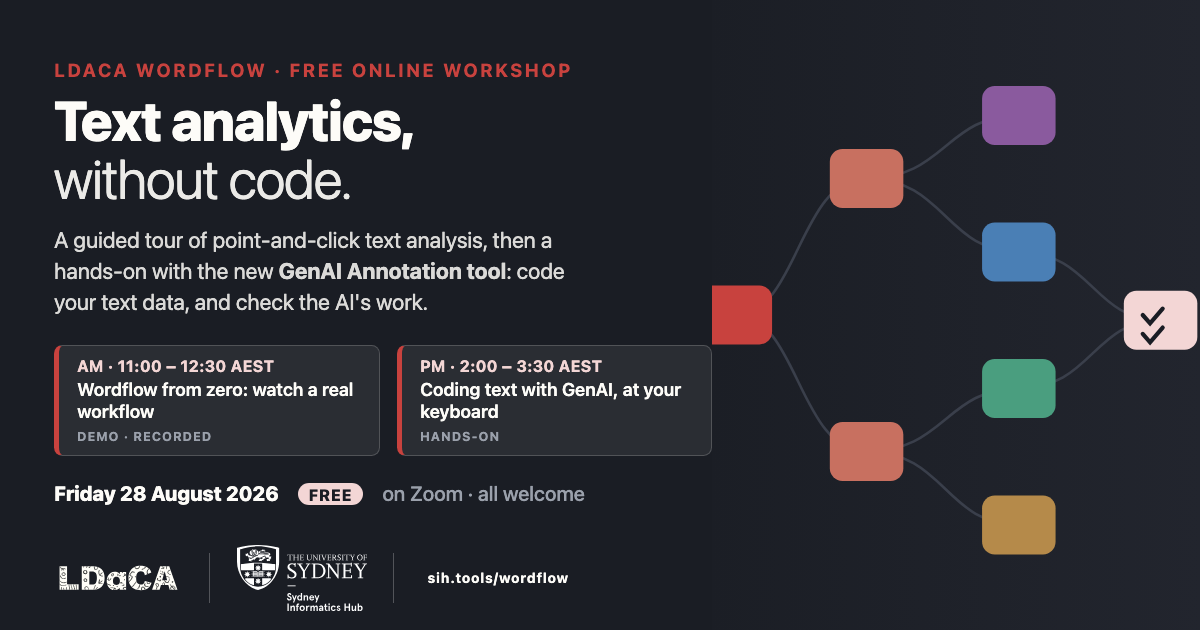
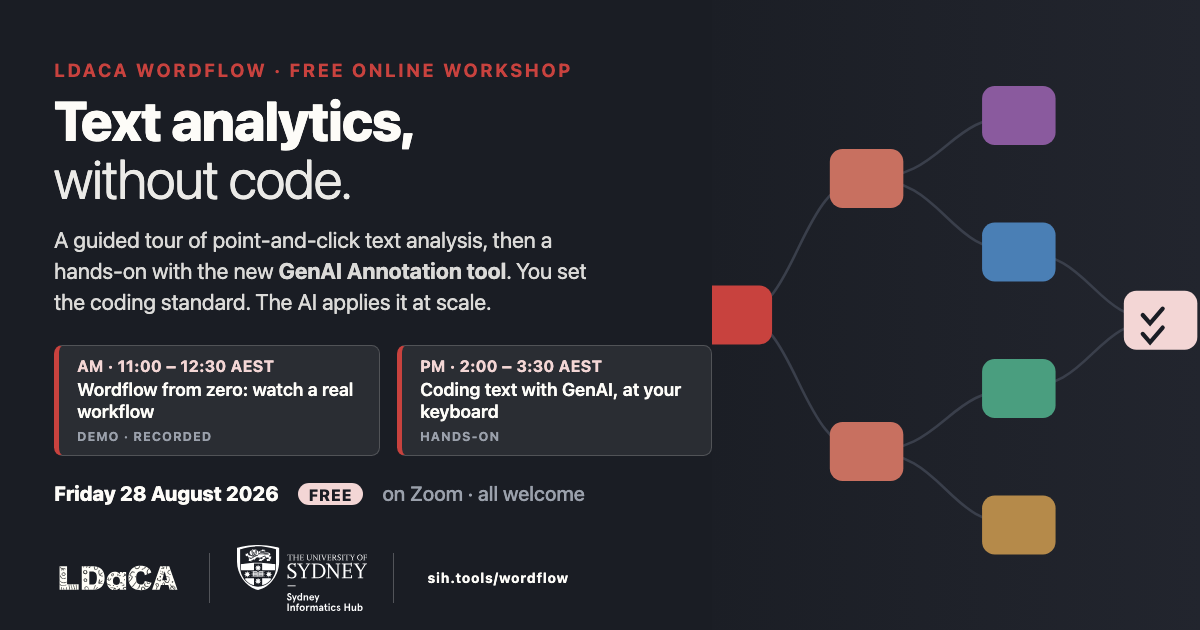
Adopt researcher-first framing across promo pieces
Banner and social: 'You set the coding standard. The AI applies it at
scale.' Eventbrite summary and newsletter: 'You code a sample and
define the codebook; the AI must match your expectation before it
earns the corpus; then it annotates at scale.' Eventbrite session-2
paragraph and alumni email reworked to the same arc. Banner PNGs
re-rendered.

Changed region(s): [[0.0308, 0.4524, 0.4008, 0.5127], [0.4317, 0.4222, 0.4933, 0.4524]]

diff --git a/communications/promo-blurbs-online.html b/communications/promo-blurbs-online.html
@@ -22,7 +22,7 @@
     <strong style="color:#374151;">Event title:</strong> Text analytics without code: LDaCA Wordflow online workshop (incl. hands-on GenAI text coding)
   </div>
   <div style="max-width:640px; margin:0 auto 14px; font-family:-apple-system,'Segoe UI',Roboto,Helvetica,Arial,sans-serif; font-size:13px; color:#6b7280;">
-    <strong style="color:#374151;">Summary (short description field):</strong> A free one-day online workshop for researchers who work with text. Morning: see what Wordflow can do, end to end (no installation needed). Afternoon: hands-on with the new Annotation tool. Code your text data with a GenAI model, and learn how to check its work.
+    <strong style="color:#374151;">Summary (short description field):</strong> A free one-day online workshop for researchers who work with text. Morning: see what Wordflow can do, end to end (no installation needed). Afternoon: hands-on with the new Annotation tool. You code a sample and define the codebook; the AI must match your expectation before it earns the corpus; then it annotates at scale.
   </div>
   <div style="max-width:640px; margin:0 auto 36px; background:#ffffff; padding:32px 36px; border-radius:10px; border:1px solid #e5e7eb; font-family:-apple-system,'Segoe UI',Roboto,Helvetica,Arial,sans-serif; font-size:15px; line-height:1.6; color:#1f2933;">
 
@@ -34,7 +34,7 @@
     <p style="margin:0 0 16px;">A guided tour, no hands-on and nothing to install: the concepts, the interface, and a real research workflow built live: from raw election tweets to a small empirical finding, across four analysis tools. This session is <strong>recorded</strong>, so you can revisit it any time. If you attended our June workshop, you may prefer to join for the afternoon only.</p>
 
     <h2 style="font-size:18px; font-weight:600; color:#1a56db; margin:28px 0 8px;">Session 2 · Hands-on: coding text with GenAI, 2:00 – 3:30 pm AEST <span style="font-weight:400; color:#6b7280; font-size:15px;">(1:30 pm ACST · 12:00 pm AWST)</span></h2>
-    <p style="margin:0 0 16px;">At your own keyboard, you'll use Wordflow's new <strong>Annotation</strong> tool to classify a real dataset with an AI model, then check the AI's coding the way you'd check a human coder's: agreement scores, a confusion matrix, and targeted revisions to your codebook and prompt. This session is deliberately <strong>not recorded</strong>, so it can run at the room's pace. To take part you'll need the free desktop app installed and a free AI-provider API key; a registration email a week beforehand walks you through both (about 10 minutes; zero cost).</p>
+    <p style="margin:0 0 16px;">At your own keyboard, you'll use Wordflow's new <strong>Annotation</strong> tool the researcher-first way: you code a sample and define the codebook; the AI must match your expectation (agreement scores, a confusion matrix, targeted revisions to your codebook and prompt) before it earns the corpus; then it annotates at scale. This session is deliberately <strong>not recorded</strong>, so it can run at the room's pace. To take part you'll need the free desktop app installed and a free AI-provider API key; a registration email a week beforehand walks you through both (about 10 minutes; zero cost).</p>
 
     <h2 style="font-size:18px; font-weight:600; color:#1a56db; margin:28px 0 8px;">Who it's for</h2>
     <p style="margin:0 0 16px;">HDR students to senior academics, in any field where text is data. No coding experience needed. That's the point. Built for Australian researchers, but free and open to everyone; international colleagues are warmly welcome (session times are AEST; the desktop app works anywhere).</p>
@@ -54,7 +54,7 @@
     2 · Newsletter paragraph
   </div>
   <div style="max-width:640px; margin:0 auto 36px; background:#ffffff; padding:32px 36px; border-radius:10px; border:1px solid #e5e7eb; font-family:-apple-system,'Segoe UI',Roboto,Helvetica,Arial,sans-serif; font-size:15px; line-height:1.6; color:#1f2933;">
-    <p style="margin:0;"><strong>Text analytics without code, including GenAI text coding (online, 28 August).</strong> Do you work with text (interviews, social media, news, archives) but not with Python or R? Join us on <strong>Friday 28 August</strong> for a free online workshop on <strong>LDaCA Wordflow</strong>, a point-and-click text analytics app from the Language Data Commons of Australia. The morning session (<strong>11:00 am – 12:30 pm AEST</strong>; 9:00 am in the west) is a watch-only tour: concepts, interface, and a real research workflow built live, recorded for later viewing. After lunch (<strong>2:00 – 3:30 pm AEST</strong>), a hands-on session introduces Wordflow's new <strong>Annotation</strong> tool: code a real dataset with a GenAI model, measure its agreement with human coders, and improve it (the workflow you'd need before trusting AI-assisted coding in your own research). Attend either session or both; no coding experience required. Register at <span style="background:#fef3c7; padding:0 4px; border-radius:3px;">⟨Eventbrite link⟩</span>.</p>
+    <p style="margin:0;"><strong>Text analytics without code, including GenAI text coding (online, 28 August).</strong> Do you work with text (interviews, social media, news, archives) but not with Python or R? Join us on <strong>Friday 28 August</strong> for a free online workshop on <strong>LDaCA Wordflow</strong>, a point-and-click text analytics app from the Language Data Commons of Australia. The morning session (<strong>11:00 am – 12:30 pm AEST</strong>; 9:00 am in the west) is a watch-only tour: concepts, interface, and a real research workflow built live, recorded for later viewing. After lunch (<strong>2:00 – 3:30 pm AEST</strong>), a hands-on session introduces Wordflow's new <strong>Annotation</strong> tool. You code a sample and define the codebook; the AI must match your expectation before it earns the corpus; then it annotates at scale. Attend either session or both; no coding experience required. Register at <span style="background:#fef3c7; padding:0 4px; border-radius:3px;">⟨Eventbrite link⟩</span>.</p>
   </div>
 
   <!-- ============================================================= -->
@@ -67,7 +67,7 @@
     <p style="margin:0 0 14px;">Text as data, but code not your thing? 🧶</p>
     <p style="margin:0 0 14px;">Free online workshop, Fri 28 Aug: <strong>LDaCA Wordflow</strong>, point-and-click text analytics.</p>
     <p style="margin:0 0 4px;">☀ AM (11:00 AEST / 9:00 AWST): watch a full research workflow, raw tweets → findings. Recorded.</p>
-    <p style="margin:0 0 14px;">🛠 PM (2:00 AEST / 12:00 AWST): hands-on. Code text with a GenAI model, then check its work like you'd check a human coder's.</p>
+    <p style="margin:0 0 14px;">🛠 PM (2:00 AEST / 12:00 AWST): hands-on. You set the coding standard. The AI applies it at scale.</p>
     <p style="margin:0 0 14px;">Come for one session or both. Register: <span style="background:#fef3c7; padding:0 4px; border-radius:3px;">⟨link⟩</span></p>
     <p style="margin:0; color:#2563eb;">#TextAnalytics #DigitalHumanities #LDaCA #ResearchTools</p>
   </div>
@@ -87,7 +87,7 @@
 
     <p style="margin:0 0 16px;">You joined our Wordflow workshop back in June. Thank you again. You may remember an AI annotation entry sitting in the sidebar that wasn't usable yet. It's now released, and we're running an online hands-on for it.</p>
 
-    <p style="margin:0 0 16px;">On <strong>Friday 28 August, 2:00 – 3:30 pm AEST</strong> (12:00 pm in the west), you'll use the new <strong>Annotation tool</strong> in Wordflow v0.7 to code a real dataset with a GenAI model of your choice and, more importantly, check its work the way you'd check a human coder's: intercoder reliability, a confusion matrix, and revisions to your codebook until the numbers hold up. It's on your own keyboard, at the room's pace, and not recorded.</p>
+    <p style="margin:0 0 16px;">On <strong>Friday 28 August, 2:00 – 3:30 pm AEST</strong> (12:00 pm in the west), you'll use the new <strong>Annotation tool</strong> in Wordflow v0.7 the researcher-first way: code a sample, define the codebook, and hold the AI to your standard (intercoder reliability, a confusion matrix, codebook revisions until the numbers hold up) before it annotates the corpus at scale. It's on your own keyboard, at the room's pace, and not recorded.</p>
 
     <p style="margin:0 0 16px;">Since you've done the June intro, this afternoon session is all you need, though there's also a <strong>morning session (11:00 am – 12:30 pm AEST)</strong> re-introducing Wordflow for newcomers, rebuilt on v0.7's refreshed interface. It'll be recorded, so you can skim it later if you're curious what's changed.</p>
 

diff --git a/communications/images/banner-source.html b/communications/images/banner-source.html
@@ -134,7 +134,7 @@
   <div class="left">
     <div class="kicker">LDaCA Wordflow · Free Online Workshop</div>
     <h1>Text analytics,<br><span class="thin">without code.</span></h1>
-    <p class="sub">A guided tour of point-and-click text analysis, then a hands-on with the new <strong>GenAI Annotation tool</strong>: code your text data, and check the AI's work.</p>
+    <p class="sub">A guided tour of point-and-click text analysis, then a hands-on with the new <strong>GenAI Annotation tool</strong>. You set the coding standard. The AI applies it at scale.</p>
     <div class="sessions">
       <div class="session">
         <div class="when">AM · 11:00 – 12:30 AEST</div>

diff --git a/communications/promo-blurbs-online.md b/communications/promo-blurbs-online.md
@@ -9,7 +9,7 @@ Three ready-to-paste blurbs. Placeholders in ⟨angle brackets⟩. Keep the tone
 **Title:** Text analytics without code: LDaCA Wordflow online workshop (incl. hands-on GenAI text coding)
 
 **Summary (short description field):**
-A free one-day online workshop for researchers who work with text. Morning: see what Wordflow can do, end to end (no installation needed). Afternoon: hands-on with the new Annotation tool. Code your text data with a GenAI model, and learn how to check its work.
+A free one-day online workshop for researchers who work with text. Morning: see what Wordflow can do, end to end (no installation needed). Afternoon: hands-on with the new Annotation tool. You code a sample and define the codebook; the AI must match your expectation before it earns the corpus; then it annotates at scale.
 
 **Description:**
 
@@ -21,7 +21,7 @@ This online workshop runs as **two 90-minute Zoom sessions**; attend either half
 A guided tour, no hands-on and nothing to install: the concepts, the interface, and a real research workflow built live: from raw election tweets to a small empirical finding, across four analysis tools. This session is **recorded**, so you can revisit it any time. If you attended our June workshop, you may prefer to join for the afternoon only.
 
 **Session 2 · Hands-on: coding text with GenAI, 2:00 – 3:30 pm AEST** *(1:30 pm ACST · 12:00 pm AWST)*
-At your own keyboard, you'll use Wordflow's new **Annotation** tool to classify a real dataset with an AI model, then check the AI's coding the way you'd check a human coder's: agreement scores, a confusion matrix, and targeted revisions to your codebook and prompt. This session is deliberately **not recorded**, so it can run at the room's pace. To take part you'll need the free desktop app installed and a free AI-provider API key; a registration email a week beforehand walks you through both (about 10 minutes; zero cost).
+At your own keyboard, you'll use Wordflow's new **Annotation** tool the researcher-first way: you code a sample and define the codebook; the AI must match your expectation (agreement scores, a confusion matrix, targeted revisions to your codebook and prompt) before it earns the corpus; then it annotates at scale. This session is deliberately **not recorded**, so it can run at the room's pace. To take part you'll need the free desktop app installed and a free AI-provider API key; a registration email a week beforehand walks you through both (about 10 minutes; zero cost).
 
 **Who it's for:** HDR students to senior academics, in any field where text is data. No coding experience needed. That's the point. Built for Australian researchers, but free and open to everyone; international colleagues are warmly welcome (session times are AEST; the desktop app works anywhere).
 
@@ -35,7 +35,7 @@ Wordflow is developed at the University of Sydney (Sydney Informatics Hub and Sy
 
 ## 2 · Newsletter paragraph
 
-**Text analytics without code, including GenAI text coding (online, 28 August).** Do you work with text (interviews, social media, news, archives) but not with Python or R? Join us on **Friday 28 August** for a free online workshop on **LDaCA Wordflow**, a point-and-click text analytics app from the Language Data Commons of Australia. The morning session (**11:00 am – 12:30 pm AEST**; 9:00 am in the west) is a watch-only tour: concepts, interface, and a real research workflow built live, recorded for later viewing. After lunch (**2:00 – 3:30 pm AEST**), a hands-on session introduces Wordflow's new **Annotation** tool: code a real dataset with a GenAI model, measure its agreement with human coders, and improve it (the workflow you'd need before trusting AI-assisted coding in your own research). Attend either session or both; no coding experience required. Register at ⟨Eventbrite link⟩.
+**Text analytics without code, including GenAI text coding (online, 28 August).** Do you work with text (interviews, social media, news, archives) but not with Python or R? Join us on **Friday 28 August** for a free online workshop on **LDaCA Wordflow**, a point-and-click text analytics app from the Language Data Commons of Australia. The morning session (**11:00 am – 12:30 pm AEST**; 9:00 am in the west) is a watch-only tour: concepts, interface, and a real research workflow built live, recorded for later viewing. After lunch (**2:00 – 3:30 pm AEST**), a hands-on session introduces Wordflow's new **Annotation** tool. You code a sample and define the codebook; the AI must match your expectation before it earns the corpus; then it annotates at scale. Attend either session or both; no coding experience required. Register at ⟨Eventbrite link⟩.
 
 ---
 
@@ -46,7 +46,7 @@ Text as data, but code not your thing? 🧶
 Free online workshop, Fri 28 Aug: **LDaCA Wordflow**, point-and-click text analytics.
 
 ☀ AM (11:00 AEST / 9:00 AWST): watch a full research workflow, raw tweets → findings. Recorded.
-🛠 PM (2:00 AEST / 12:00 AWST): hands-on. Code text with a GenAI model, then check its work like you'd check a human coder's.
+🛠 PM (2:00 AEST / 12:00 AWST): hands-on. You set the coding standard. The AI applies it at scale.
 
 Come for one session or both. Register: ⟨link⟩
 
@@ -62,7 +62,7 @@ Hi all,
 
 You joined our Wordflow workshop back in June. Thank you again. You may remember an AI annotation entry sitting in the sidebar that wasn't usable yet. It's now released, and we're running an online hands-on for it.
 
-On **Friday 28 August, 2:00 – 3:30 pm AEST** (12:00 pm in the west), you'll use the new **Annotation tool** in Wordflow v0.7 to code a real dataset with a GenAI model of your choice and, more importantly, check its work the way you'd check a human coder's: intercoder reliability, a confusion matrix, and revisions to your codebook until the numbers hold up. It's on your own keyboard, at the room's pace, and not recorded.
+On **Friday 28 August, 2:00 – 3:30 pm AEST** (12:00 pm in the west), you'll use the new **Annotation tool** in Wordflow v0.7 the researcher-first way: code a sample, define the codebook, and hold the AI to your standard (intercoder reliability, a confusion matrix, codebook revisions until the numbers hold up) before it annotates the corpus at scale. It's on your own keyboard, at the room's pace, and not recorded.
 
 Since you've done the June intro, this afternoon session is all you need, though there's also a **morning session (11:00 am – 12:30 pm AEST)** re-introducing Wordflow for newcomers, rebuilt on v0.7's refreshed interface. It'll be recorded, so you can skim it later if you're curious what's changed.
 
